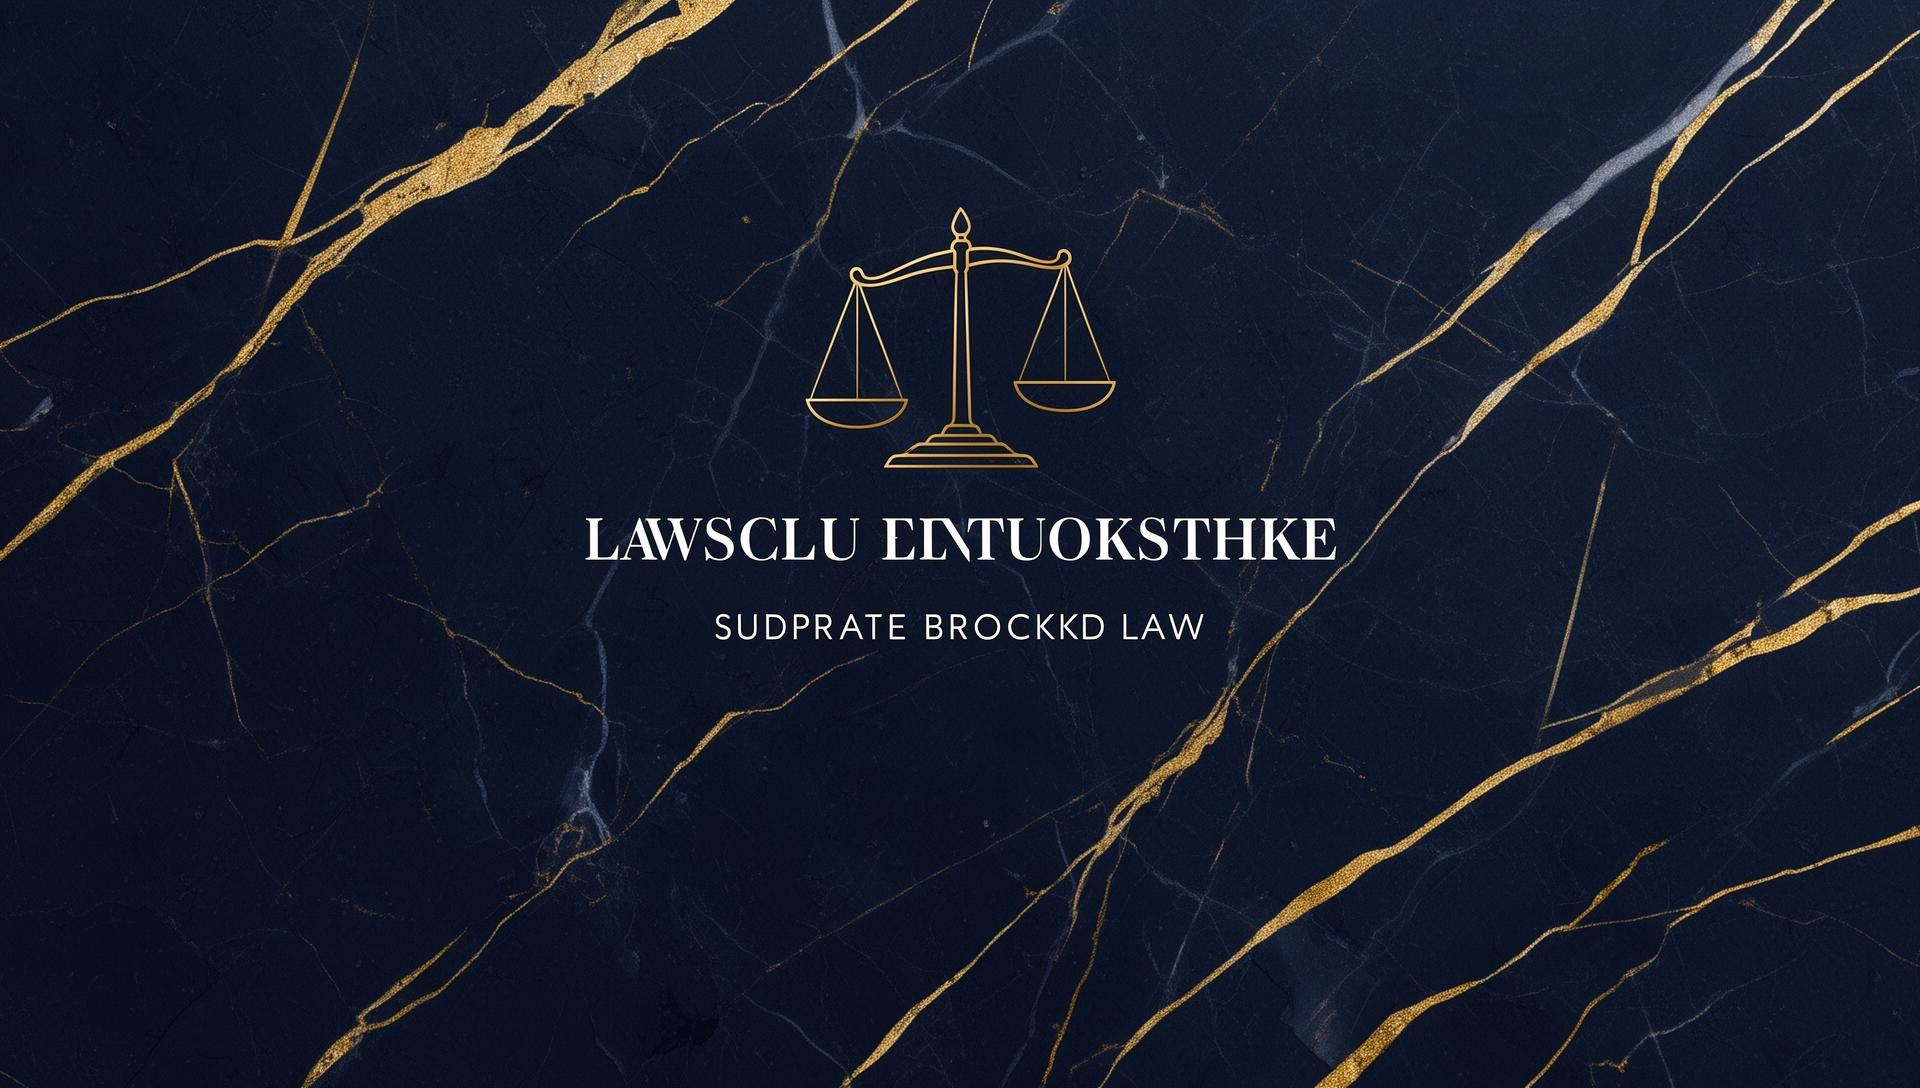
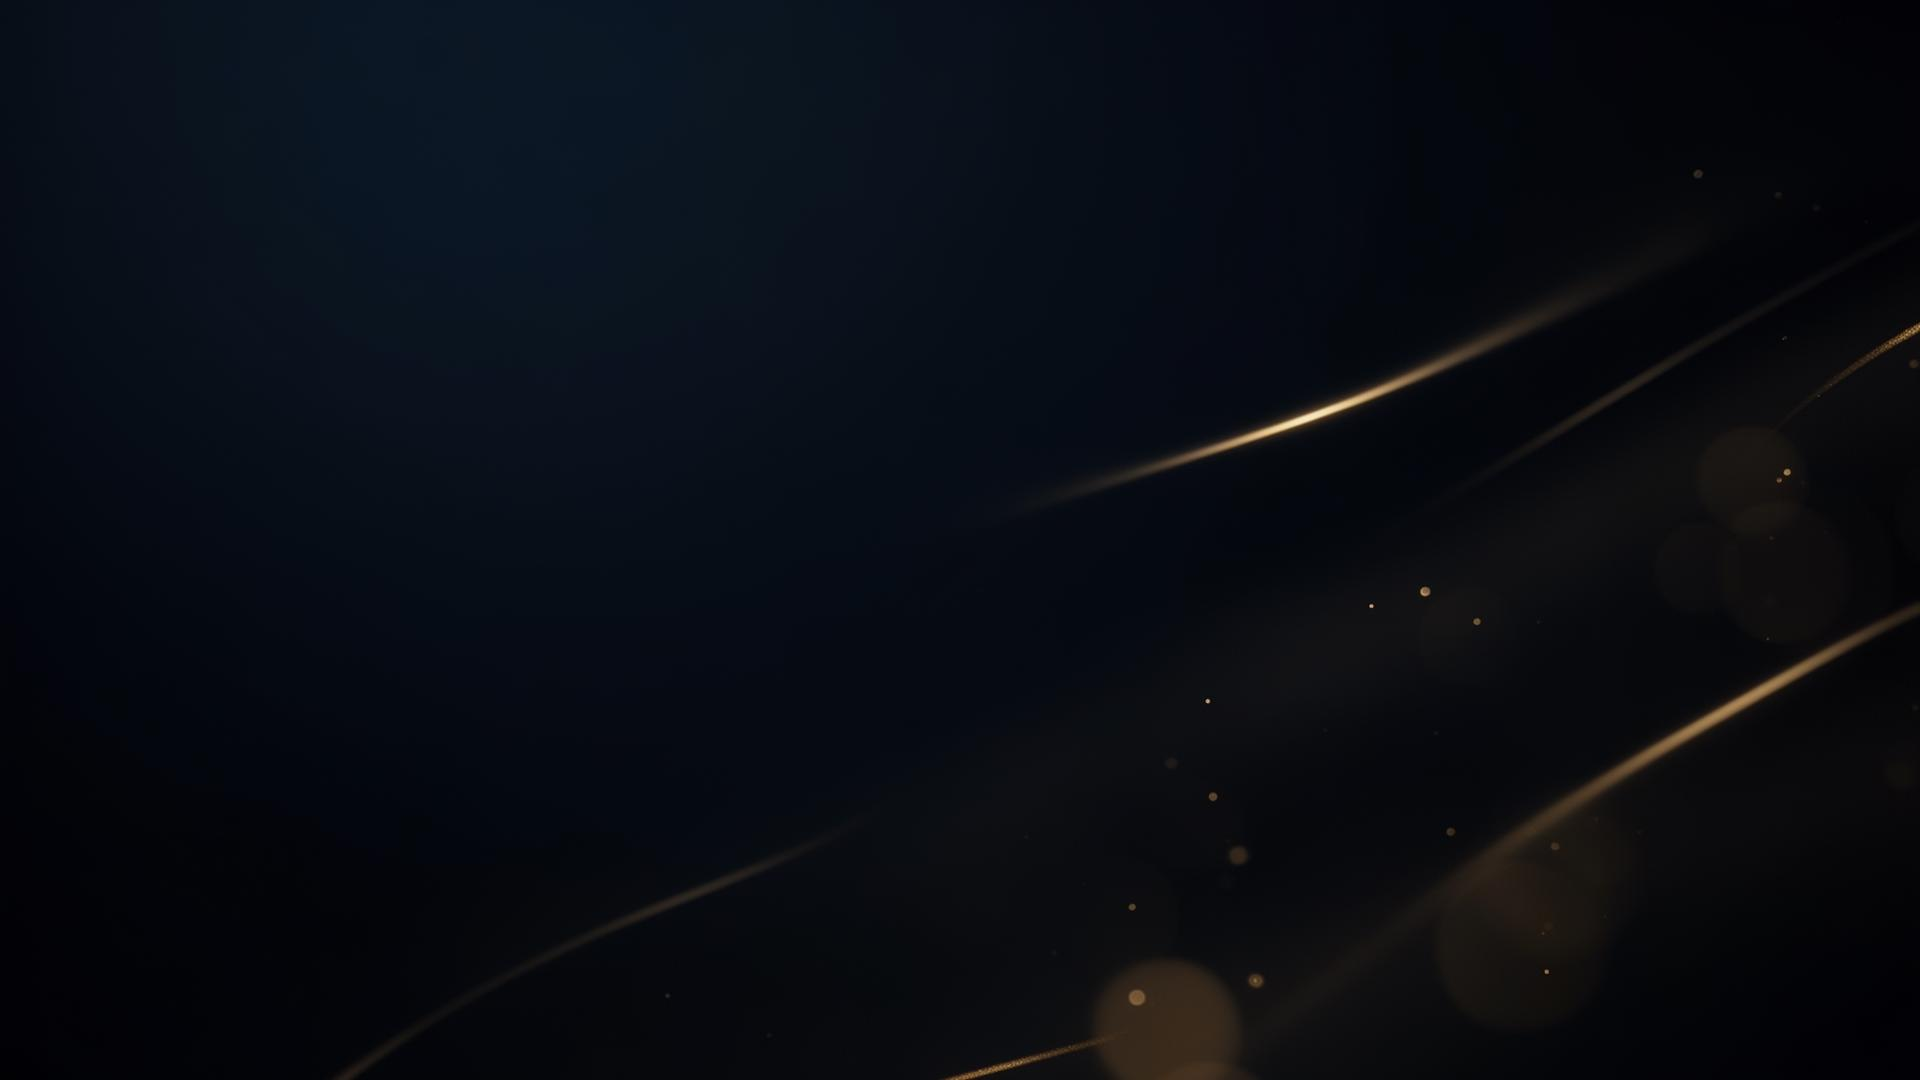
Changes

diff --git a/src/components/Hero.tsx b/src/components/Hero.tsx
@@ -1,12 +1,17 @@
 import { motion } from "framer-motion";
-
+import heroBg from "@/assets/hero-bg.jpg";
 import { useLanguage } from "@/context/LanguageContext";
 
 const Hero = () => {
   const { t } = useLanguage();
 
   return (
-    <section className="relative min-h-screen flex items-center overflow-hidden bg-background">
+    <section className="relative min-h-screen flex items-center overflow-hidden">
+      <div
+        className="absolute inset-0 bg-cover bg-center bg-no-repeat"
+        style={{ backgroundImage: `url(${heroBg})` }}>
+        <div className="absolute inset-0 bg-gradient-to-r from-background/90 via-background/70 to-background/40" />
+      </div>
 
       <div className="relative z-10 container mx-auto px-4 lg:px-8 pt-20">
         <motion.div
